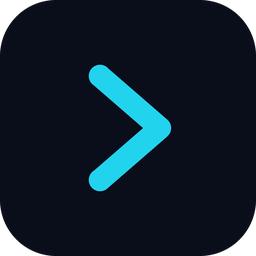
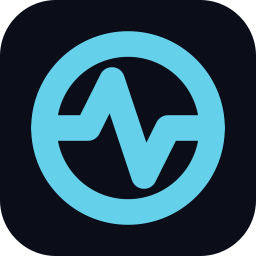
feat: new mark — a sphere with a heartbeat running through it
Replaces the chevron, which read as a play button or a shell prompt rather
than monitoring. The new mark puts both halves of the name into one shape:
a ring for the sphere, a pulse for the uptime.

Ring and pulse carry the same stroke weight and the pulse terminates on the
ring's centre line, so the glyph stays connected when it shrinks. A pulse
that crosses the ring looks better at 256 px but breaks it into four
floating pieces at 16 px, which is where a favicon actually lives.

Palette is unchanged: #0a0e1a ground, #22d3ee mark.

brand/uptimesphere-mark.svg is the vector source; the PNGs HACS reads are
generated from it.

diff --git a/brand/README.md b/brand/README.md
@@ -1,0 +1,20 @@
+# Brand assets
+
+`uptimesphere-mark.svg` is the source of truth: a ring (the sphere) that a
+heartbeat runs through (the uptime). Ring and pulse share one stroke weight and
+the pulse terminates on the ring's centre line, so the mark stays a single
+connected shape when it is scaled down — at 16 px a crossing line breaks the
+ring into fragments instead.
+
+Palette is UptimeSphere's own: `#0a0e1a` ground, `#22d3ee` mark.
+
+The rasterised icons under `custom_components/uptimesphere/brand/` are what HACS
+reads. To regenerate them from the SVG:
+
+```bash
+python -c "from svglib.svglib import svg2rlg; from reportlab.graphics import renderPDF; \
+renderPDF.drawToFile(svg2rlg('brand/uptimesphere-mark.svg'), 'mark.pdf')"
+sips -s format png -Z 256 mark.pdf --out custom_components/uptimesphere/brand/icon.png
+sips -s format png -Z 512 mark.pdf --out 'custom_components/uptimesphere/brand/icon@2x.png'
+rm mark.pdf
+```
